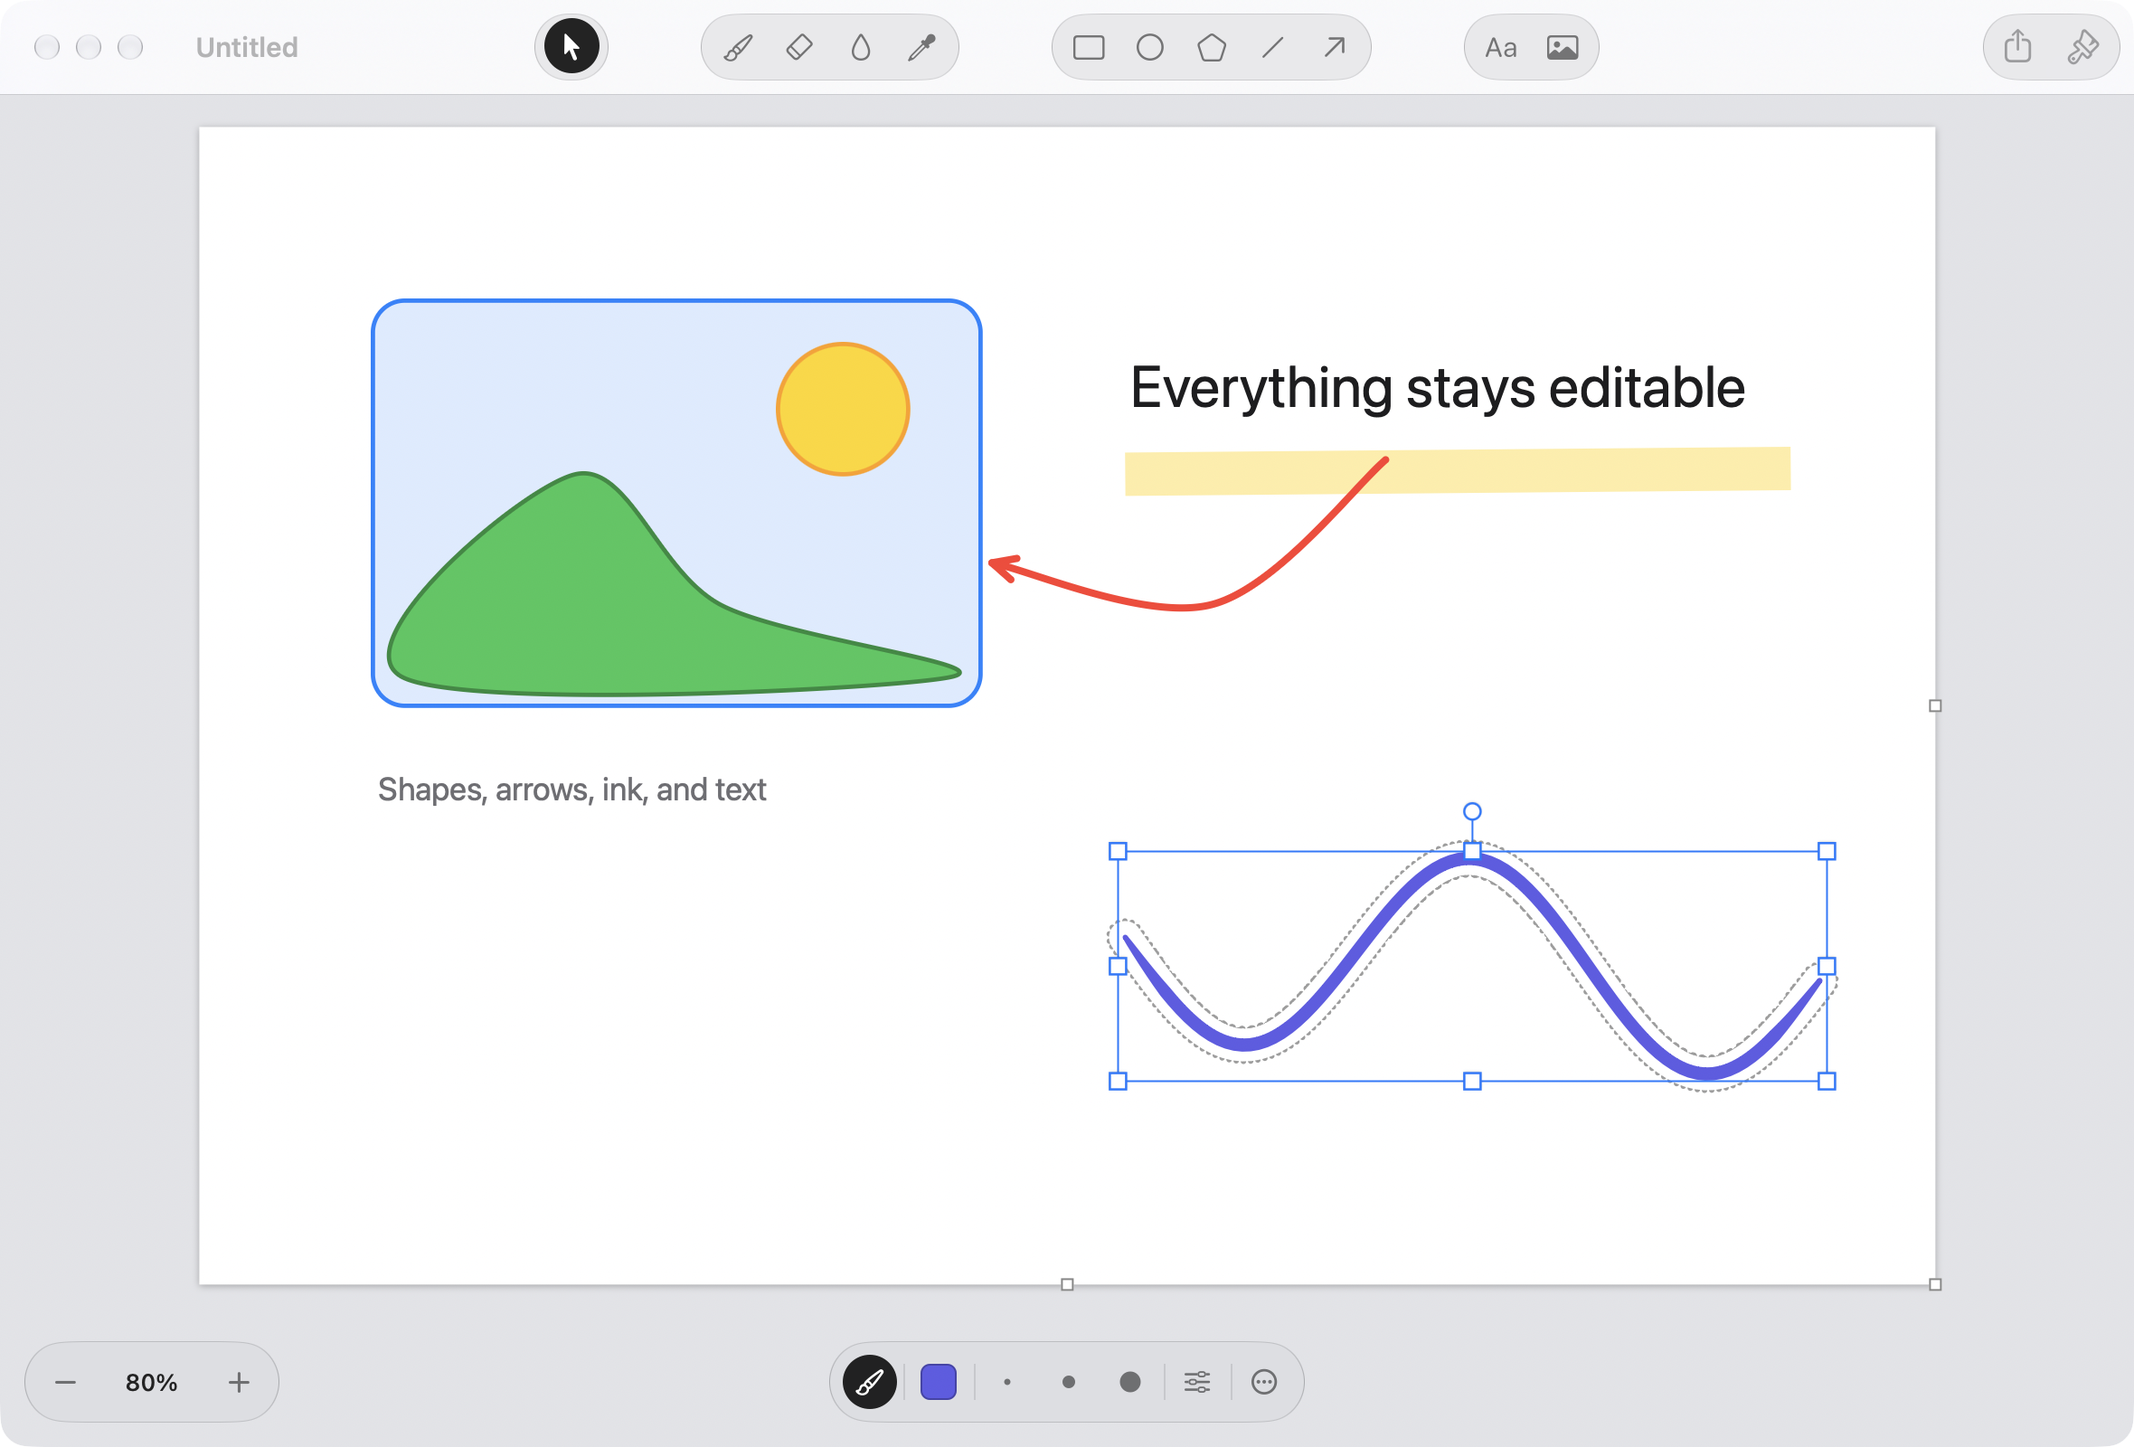
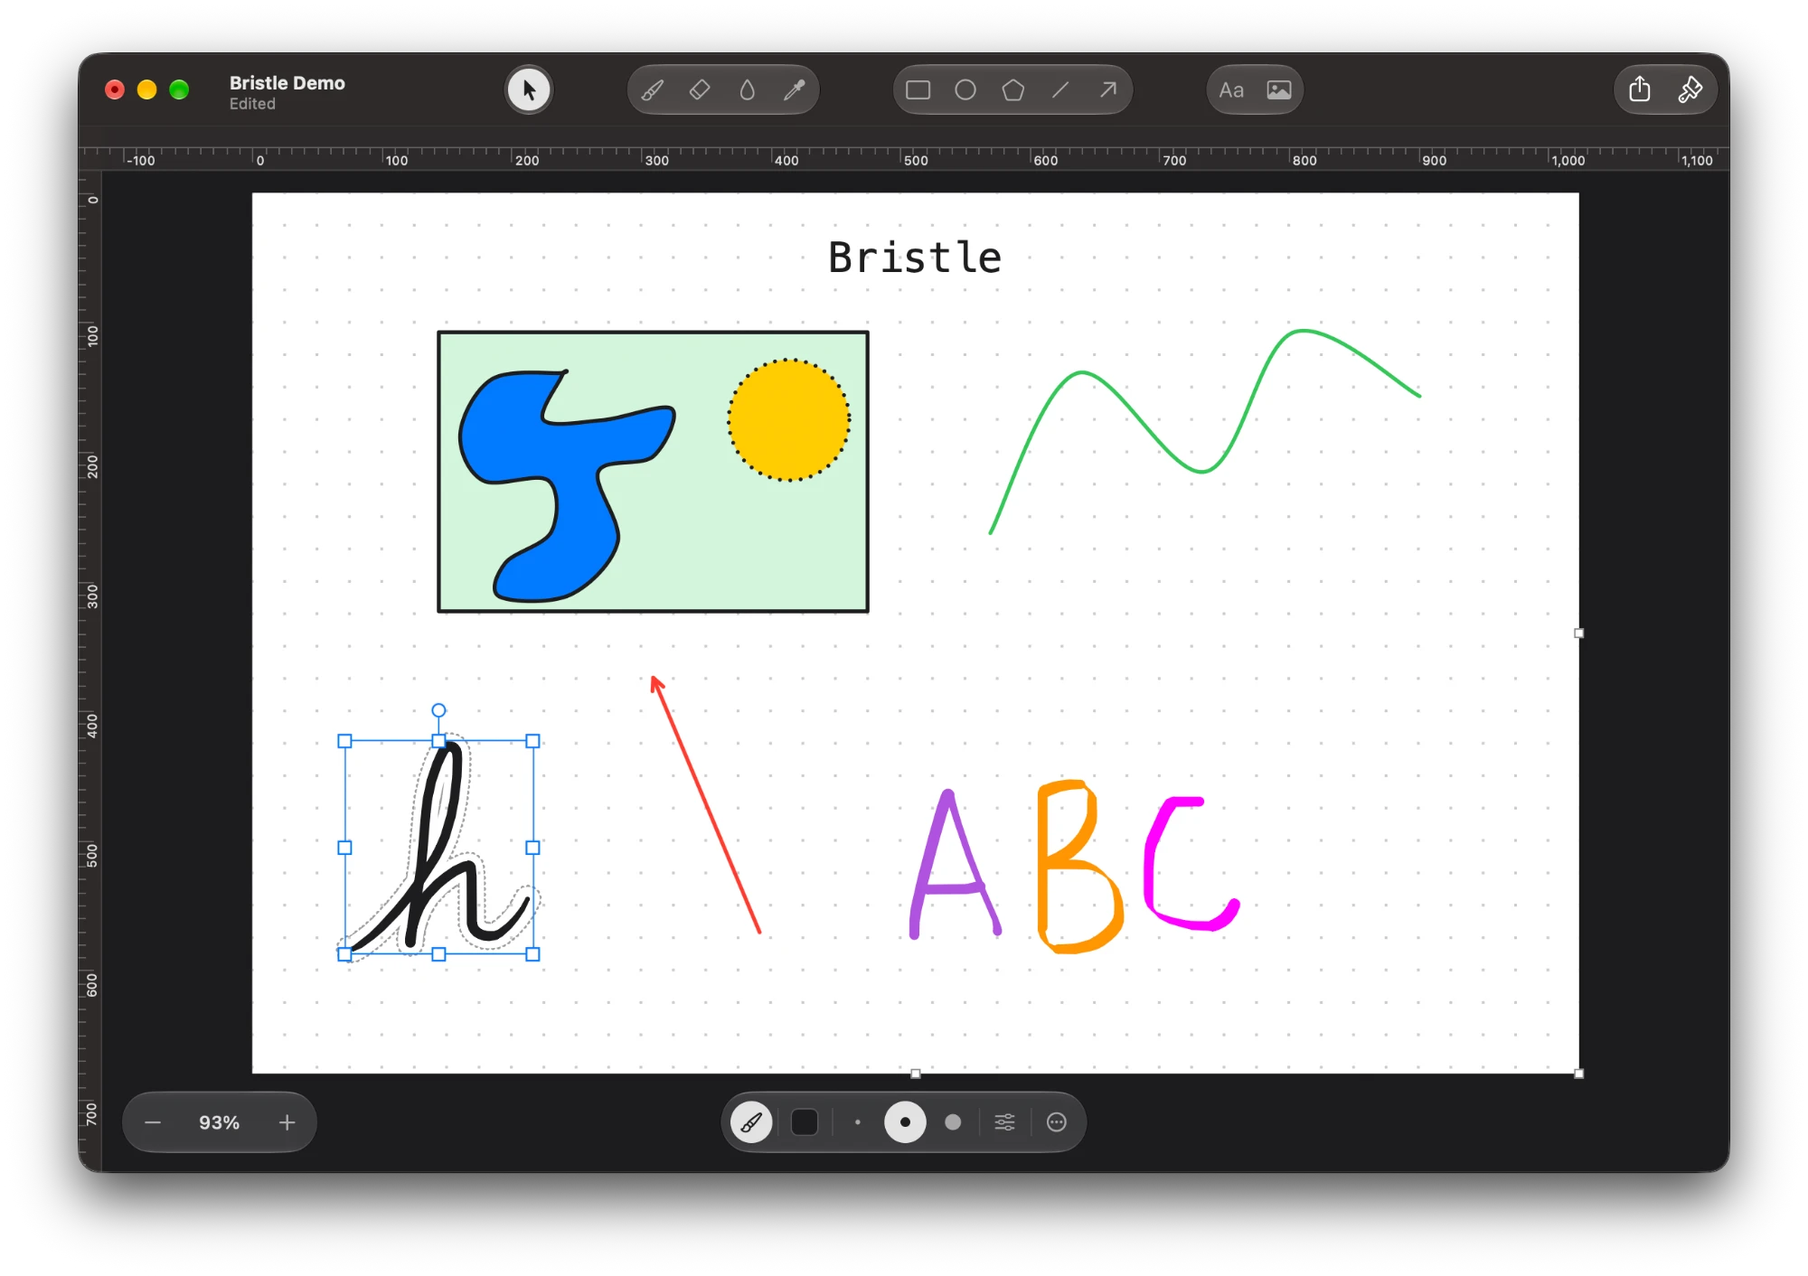
Rewrite the README and update the screenshot
The README is shorter and says plainly what Bristle does, and the screenshot now matches the dark mode ones for PoteNad and Plainst. The Remove Background test uses its own image now, so it doesn't break whenever the screenshot changes.

diff --git a/README.md b/README.md
@@ -1,8 +1,8 @@
 # Bristle
 
-Bristle is a small, native macOS drawing app. It has the immediacy of a paint program — pick a pencil and draw — but everything you draw stays an editable object: shapes, lines and arrows, freehand strokes, text, and images. Nothing is flattened into pixels behind your back, so you can open a screenshot, mark it up, save an ordinary PNG, and reopen it later with every annotation still editable. Bristle requires macOS 13 or newer, works entirely offline, and has no third-party dependencies.
+Bristle is a small, native macOS drawing app. You draw with pencils, brushes, shapes, lines, and text on a canvas, like in MS Paint, but everything you draw can still be moved, resized, recolored, or edited later. It saves drawings as readable `.bristle` files or as PNGs that reopen with every object intact. Bristle requires macOS 13 or newer, works entirely offline, and has no third-party dependencies.
 
-![Bristle drawing shapes, an arrow, ink, and text on its canvas, with a stroke selected and its style bar at the bottom](Assets/Bristle-Screenshot.png)
+![Bristle editing a drawing of shapes, strokes, an arrow, and text in dark mode](Assets/Bristle-Screenshot.png)
 
 ## Install
 
@@ -18,37 +18,35 @@ The Homebrew cask verifies the app bundle and removes its quarantine attribute s
 
 ## How it works
 
-- **The canvas** is a page, as MS Paint's is: 1200 × 800 points to start (Settings can change that), white or transparent or any colour, and it looks the same in light and dark, as a page in Pages does; only the grey around it follows the appearance. Drag its handles at the right, the bottom, and the corner to resize it, with any tool, or its edges with Select. Canvas ▸ Canvas Size sets it exactly, keeping the drawing at any corner or the middle; Crop to Selection (⌘K) and Fit Canvas to Drawing fit it to what's there; and Canvas ▸ Rotate and Flip turn the whole thing. Anything moved off the canvas is kept, out of sight, until the canvas grows to show it again. View ▸ Show Rulers (⌘R) adds rulers in points from its corner.
-- **The toolbar** holds every tool, one click each, the tool in use marked by the same circle the bars use, grouped as MS Paint's ribbon is: Select; Draw, Eraser, Fill, and Pick Color; Rectangle, Ellipse, Shapes, Line, and Arrow; then Text and Image. Every tool also has a key: V Select, P Pencil, B Brush, M Highlighter, C Calligraphy, S Airbrush, X Pixel, E Eraser, F Fill, R Rectangle, O Ellipse, G Polygon, L Line, A Arrow, T Text, I Eyedropper. Hold Space to pan.
-- **The style bar** at the bottom centre changes with what you're doing, as Freeform's does: a menu of brushes, the width, and the colour while drawing; how the eraser erases; and for a selection, its stroke and fill colours, width, line style, arrowheads, font, size, and alignment, with a menu to arrange it. Its Style button sets any width, the opacity, and the line style. Colours, with a square of shades, a strip of hues, and a hex field for any other, and menus open above the bar, inside the window. The bar hides when there's nothing to style.
-- **Like MS Paint:** the Polygon tool draws a gallery of shapes with one drag (triangles, a diamond, stars, a heart, lightning, arrows, and a speech bubble), each an editable polygon; Select draws a box or a free-form loop; Edit ▸ Invert Selection picks everything else; and Format ▸ Remove Background keeps a photo's subject and clears the rest, worked out on your Mac (macOS 14 or newer).
-- **Pixel art.** The Pixel brush paints square pixels, 1, 2, or 4 wide, on the grid a PNG export has. Zoomed in past 800%, the grid shows every pixel, and images show their own pixels square.
-- **Selections** get a dotted outline that follows each object's shape, as Freeform draws them. Lines have a handle in the middle of each segment: drag it to bend the line, as in Excalidraw.
-- **The zoom control** at the bottom left holds the zoom level and a menu of levels; ⌘-click the level to fit the canvas, and again to go back to 100%. Zooming keeps the middle of the view where it was, and a canvas smaller than the window sits in its middle.
-- **The Palette** is a sidebar, shown and hidden with the brush button (⇧⌘C) like Plainst's symbols sidebar, with everything the style bar has and more, as Keynote's Format inspector has it: a Style tab with every brush, colour, width, line, corner radius, font, and size, and an Arrange tab with exact position, size, and rotation, layers, alignment, distribution, flips, and actions. With nothing selected, it shows the canvas: box or free-form selection, its size, with common sizes, and its background. Settings can have the style bar step aside while it's open, and show the bars only when the pointer is near them. Double-click its edge to put it back to its usual width.
-- **Settings** hold how Bristle looks, the size and background of new drawings, the grid, with dots every 5 to 100 points so they line up with the rulers, snapping, and rulers (also in the View menu), what happens after adding a shape, and how the bars behave.
-- **Opening an image** makes a canvas its own size, with the image locked in place on it, ready to mark up. Saving an unedited image writes back the same bytes.
-- **PNGs keep the drawing.** A PNG saved by Bristle is an ordinary image everywhere else, and also carries the drawing in a private chunk, so it reopens in Bristle with every object editable. If the image is changed in another app, Bristle notices that the pixels no longer match, opens the image as it is now, and offers to restore the earlier objects.
+- **The canvas** is a page with a fixed size, 1200 × 800 points by default. Drag the handles on its right edge, bottom edge, or corner to resize it, or use Canvas ▸ Canvas Size to set an exact size. Crop to Selection (⌘K) and Fit Canvas to Drawing trim it to what you've drawn. Anything moved off the canvas is kept and shows up again if the canvas grows.
+- **The toolbar** has every tool, grouped like the ribbon in MS Paint: Select; Draw, Eraser, Fill, and Pick Color; Rectangle, Ellipse, Shapes, Line, and Arrow; then Text and Image. Each tool has a single-key shortcut, shown in its tooltip and in View ▸ Tool. Hold Space and drag to pan.
+- **The style bar** at the bottom of the window shows the options for what you're doing: brush, width, and color while drawing, or stroke, fill, line style, arrowheads, and font for whatever is selected. Colors open in a picker inside the window, with swatches, a color square, and a hex field.
+- **The Palette** (⇧⌘C) is a sidebar with every style option and an Arrange tab for exact position, size, rotation, alignment, and layer order. With nothing selected, it shows the canvas size and background.
+- **Selections** get a dotted outline that follows each object's shape. Drag the handle in the middle of a line to bend it.
+- **Opening an image** makes a canvas the size of the image, with the image locked in place so you can mark it up. Saving an image you haven't changed writes back the same bytes.
+- **PNGs keep the drawing.** A PNG saved by Bristle opens as a normal image everywhere else, but Bristle stores the drawing inside it too, so reopening it in Bristle gives you every object back. If another app changes the image, Bristle opens the new pixels and offers to restore the old objects.
 
-Bristle deliberately leaves out layers panels, filters and photo adjustments, custom brush engines, blend modes, animation, collaboration, and anything that needs an account or the network. The eraser and the fill tool work on objects, not pixels: the Pixel eraser rubs out the parts of freehand strokes it passes over, and the Object eraser removes whole objects; the fill tool fills shapes, or the canvas when you click empty space.
+Bristle leaves out layers, filters, photo adjustments, blend modes, animation, collaboration, and anything that needs an account. The eraser and fill tool work on objects rather than pixels: the Pixel eraser rubs out parts of freehand strokes, the Object eraser removes whole objects, and the fill tool fills a shape or, on empty space, the canvas itself.
 
 ## Features
 
 - Native document windows and tabs, autosave, versions, recovery of unsaved drawings, Revert, Duplicate, Rename, and Move.
-- Pencil, pressure-sensitive brush, calligraphy brush, oil brush, crayon, marker, watercolour, airbrush, highlighter, and pixel brush, as MS Paint has, with smoothing, tablet pressure, and speed-based thickness with a mouse.
-- Lines and arrows with arrowheads, curves, and ends that attach to shapes and follow them; rectangles with rounded corners, ellipses, and polygons that can be curved.
-- Text typed in place, with the font panel, sizes, alignment, and colours.
-- Images placed from files, the clipboard, drag and drop, and Continuity Camera and Sketch, with cropping (double-click an image) and flipping.
-- Move, resize, rotate, duplicate (⌘D, or Option-drag), align, distribute, group and enter groups, lock, and stacking order, with alignment guides, an optional grid, and nudging with the arrow keys.
-- Copy Style and Paste Style, Select All, and Tab to move from object to object.
-- Copying writes Bristle objects, PNG, and PDF, so a copy pastes as editable objects in Bristle and as a picture everywhere else; objects can be dragged out to other apps.
-- Export as PNG (optionally editable in Bristle), SVG, PDF, or JPEG at 1×, 2×, or 3×; Print; and Share.
-- Zoom from 5% to 3200% by pinching, ⌘-scrolling, the zoom control, or ⌘+, ⌘−, ⌘0, and ⌘9.
-- Light and dark appearances, full keyboard access, and VoiceOver descriptions of every object on the canvas.
+- Pencil, brush, calligraphy, oil, crayon, marker, watercolor, airbrush, highlighter, and pixel brushes, with smoothing and pressure from a tablet or from how fast you draw with a mouse.
+- Pixel art with a 1, 2, or 4 point pixel brush, and a pixel grid when zoomed in past 800%.
+- Lines and arrows that can curve and attach to shapes, rectangles with rounded corners, ellipses, polygons, and a set of ready-made shapes like stars, arrows, and speech bubbles.
+- Text typed straight onto the canvas, with fonts, sizes, alignment, and colors.
+- Images from files, the clipboard, drag and drop, or an iPhone or iPad with Continuity Camera, with cropping, flipping, and Remove Background on macOS 14 or newer.
+- Move, resize, rotate, duplicate, align, distribute, group, lock, and reorder, with alignment guides, an optional grid, rulers, and arrow-key nudging.
+- A tap on the trackpad when something snaps into line, when an arrow attaches to a shape, and when pinching passes 100%.
+- Box and free-form selection, Invert Selection, Copy Style and Paste Style, and Tab to move between objects.
+- Copying puts Bristle objects, PNG, and PDF on the clipboard, so a copy pastes as objects in Bristle and as a picture anywhere else.
+- Export to PNG, SVG, PDF, or JPEG at 1×, 2×, or 3×, plus Print and Share.
+- Zoom from 10% to 1600% by pinching, ⌘-scrolling, the zoom control, or ⌘+, ⌘−, ⌘0, and ⌘9. ⌘-click the zoom level to fit the canvas.
+- Light and dark appearances, full keyboard access, and VoiceOver descriptions of every object. The drawing itself looks the same in both appearances.
 
 ## File format
 
-A `.bristle` file is JSON, written with one object per line so it reads and diffs well:
+A `.bristle` file is JSON with one object per line, so it's easy to read and to diff:
 
 ```json
 {
@@ -63,14 +61,14 @@ A `.bristle` file is JSON, written with one object per line so it reads and diff
 }
 ```
 
-- `canvas` gives its `width` and `height` in points, from the origin; its `background` colour, or `null` for a transparent canvas (white when it's left out); and optionally a `resolution` in pixels per inch for exported images. Early drawings with a `frame`, `[x, y, width, height]`, open with everything moved so the frame's corner is the origin.
-- `elements` lists objects from back to front. Each has an `id`, a `type` (`rectangle`, `ellipse`, `polygon`, `line`, `arrow`, `freehand`, `text`, or `image`), and a frame (`x`, `y`, `width`, `height`) that `rotation` (radians, clockwise) turns about its centre. Values left at their defaults are omitted: `stroke` (a colour, or `null` for none, default `#1D1D1F`), `strokeWidth` (3), `dash` (`solid`, `dashed`, or `dotted`), `fill`, `opacity` (1), `cornerRadius`, `locked`, and `groups`, the ids of the groups the object belongs to, innermost first.
-- Polygons, lines, arrows, and freehand strokes have `points` relative to the frame's corner; strokes add `brush` (`pencil`, `pen`, `highlighter`, `calligraphy`, `airbrush`, `crayon`, `marker`, `watercolor`, `oil`, or `pixel`, whose `points` are the centres of its pixels) and optional `pressures`, and lines add `curved`, `startArrowhead` and `endArrowhead` (`none`, `arrow`, `triangle`, `circle`, or `bar`), and `startBinding` and `endBinding`, which attach an end to another object at an `anchor` given in that object's unit coordinates.
+- `canvas` has the canvas's `width` and `height` in points, its `background` color (`null` for transparent, white if it's missing), and an optional `resolution` in pixels per inch for exported images.
+- `elements` lists objects from back to front. Each has an `id`, a `type` (`rectangle`, `ellipse`, `polygon`, `line`, `arrow`, `freehand`, `text`, or `image`), and a frame (`x`, `y`, `width`, `height`) that `rotation` (radians, clockwise) turns about its center. Values left at their defaults are omitted: `stroke` (a color, or `null` for none, default `#1D1D1F`), `strokeWidth` (3), `dash` (`solid`, `dashed`, or `dotted`), `fill`, `opacity` (1), `cornerRadius`, `locked`, and `groups`, the ids of the groups the object belongs to, innermost first.
+- Polygons, lines, arrows, and freehand strokes have `points` relative to the frame's corner; strokes add `brush` (`pencil`, `pen`, `highlighter`, `calligraphy`, `airbrush`, `crayon`, `marker`, `watercolor`, `oil`, or `pixel`, whose `points` are the centers of its pixels) and optional `pressures`, and lines add `curved`, `startArrowhead` and `endArrowhead` (`none`, `arrow`, `triangle`, `circle`, or `bar`), and `startBinding` and `endBinding`, which attach an end to another object at an `anchor` given in that object's unit coordinates.
 - Text has `text`, `font` (a PostScript name, or omitted for the system font), `fontSize`, `textAlign`, and `fixedWidth` when it wraps at its width.
 - Images have `file`, a key into `files`, which holds each image's type and its original bytes in base64, and optionally `crop` (`[x, y, width, height]` of the image, from 0 to 1), `flipX`, and `flipY`.
-- Colours are `#RRGGBB` or `#RRGGBBAA` in sRGB. Readers ignore members they don't know, and a newer major `version` is refused rather than misread.
+- Colors are `#RRGGBB` or `#RRGGBBAA` in sRGB. Unknown members are ignored, and a file with a newer `version` is refused instead of being misread.
 
-In a PNG saved by Bristle, the same JSON is stored zlib-compressed in a private, unsafe-to-copy `brSC` chunk, with one more top-level member, `pixels`: a SHA-256 hash of the image's pixels, which tells Bristle whether the image was changed elsewhere.
+A PNG saved by Bristle stores the same JSON, zlib-compressed, in a private `brSC` chunk. It adds one member, `pixels`, a SHA-256 hash of the image's pixels, so Bristle can tell if another app changed the image.
 
 ## Build from source
 
@@ -81,11 +79,11 @@ Bristle needs Xcode or the Command Line Tools with the macOS 26 SDK or newer. Th
 open build/Bristle.app
 ```
 
-The build is optimized and ad-hoc signed for the current Mac. Open `Package.swift` in Xcode to work on the source. Run `./scripts/check.sh` for the full test suite, which includes end-to-end checks of drawing with the pointer, saving, opening, byte-identical round trips, and restoring unsaved drawings. After editing the icon in Icon Composer, run `swift scripts/make-icon.swift` to update `Assets/Bristle-Liquid.png` and `Assets/Bristle.icns`.
+The build is optimized and ad-hoc signed for the current Mac. Open `Package.swift` in Xcode to work on the source. Run `./scripts/check.sh` for the full test suite, which drives the real app to draw, scroll, zoom, save, and reopen, and compares what's on screen pixel for pixel. After editing the icon in Icon Composer, run `swift scripts/make-icon.swift` to update `Assets/Bristle-Liquid.png` and `Assets/Bristle.icns`.
 
 ## Using the canvas in another app
 
-The canvas is the `BristleCanvas` library in this package, separate from the Bristle app, and the drawing model, file format, and rendering are in `BristleCore`. `CanvasView` provides every tool, selection, text editing, the clipboard, drag and drop, zoom, and VoiceOver support. The app adds documents, the toolbar, the bars at the bottom of the window, the Palette, and Settings around it.
+The canvas is the `BristleCanvas` library in this package, separate from the app. The drawing model, file format, and rendering live in `BristleCore`. `CanvasView` handles every tool, selection, text editing, the clipboard, drag and drop, zoom, and VoiceOver. The app adds documents, the toolbar, the bars, the Palette, and Settings.
 
 ```swift
 import BristleCanvas
@@ -98,8 +96,8 @@ canvas.tool = .pen
 window.contentView = canvas.scrollView
 ```
 
-Every change goes through `Drawing`, so it can be undone, and posts `drawingDidChange`. `SceneFile` reads and writes `.bristle` JSON, and `EmbeddedScene` reads and writes PNGs that carry a drawing.
+Every change goes through `Drawing`, so it can be undone, and posts `drawingDidChange`. `SceneFile` reads and writes `.bristle` files, and `EmbeddedScene` reads and writes PNGs that carry a drawing.
 
 ## License
 
-MIT — see [LICENSE](LICENSE).
+MIT. See [LICENSE](LICENSE).
